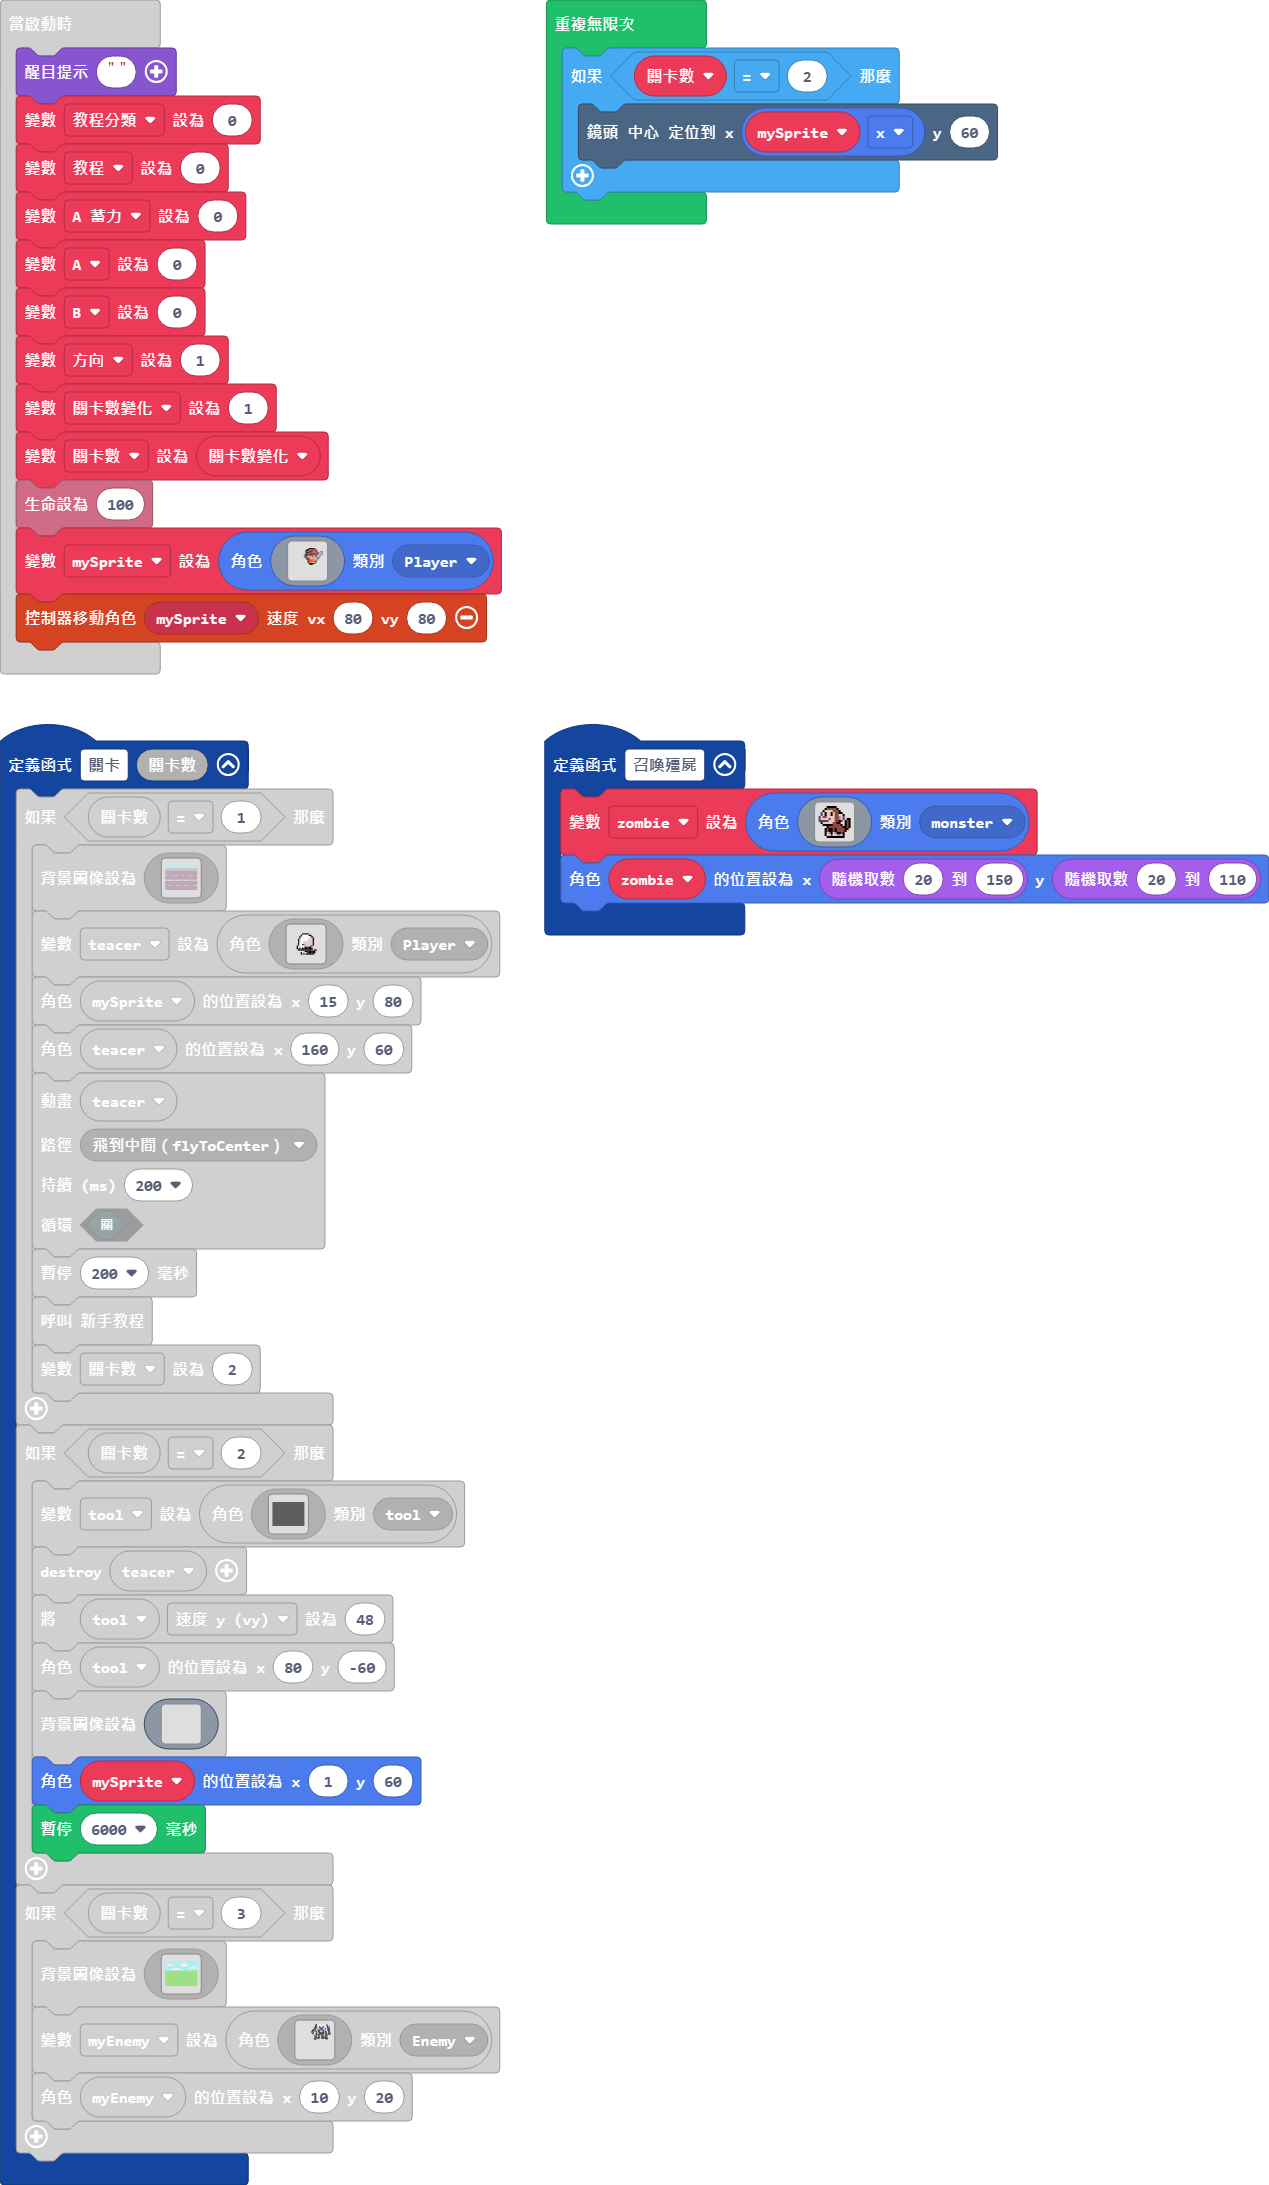
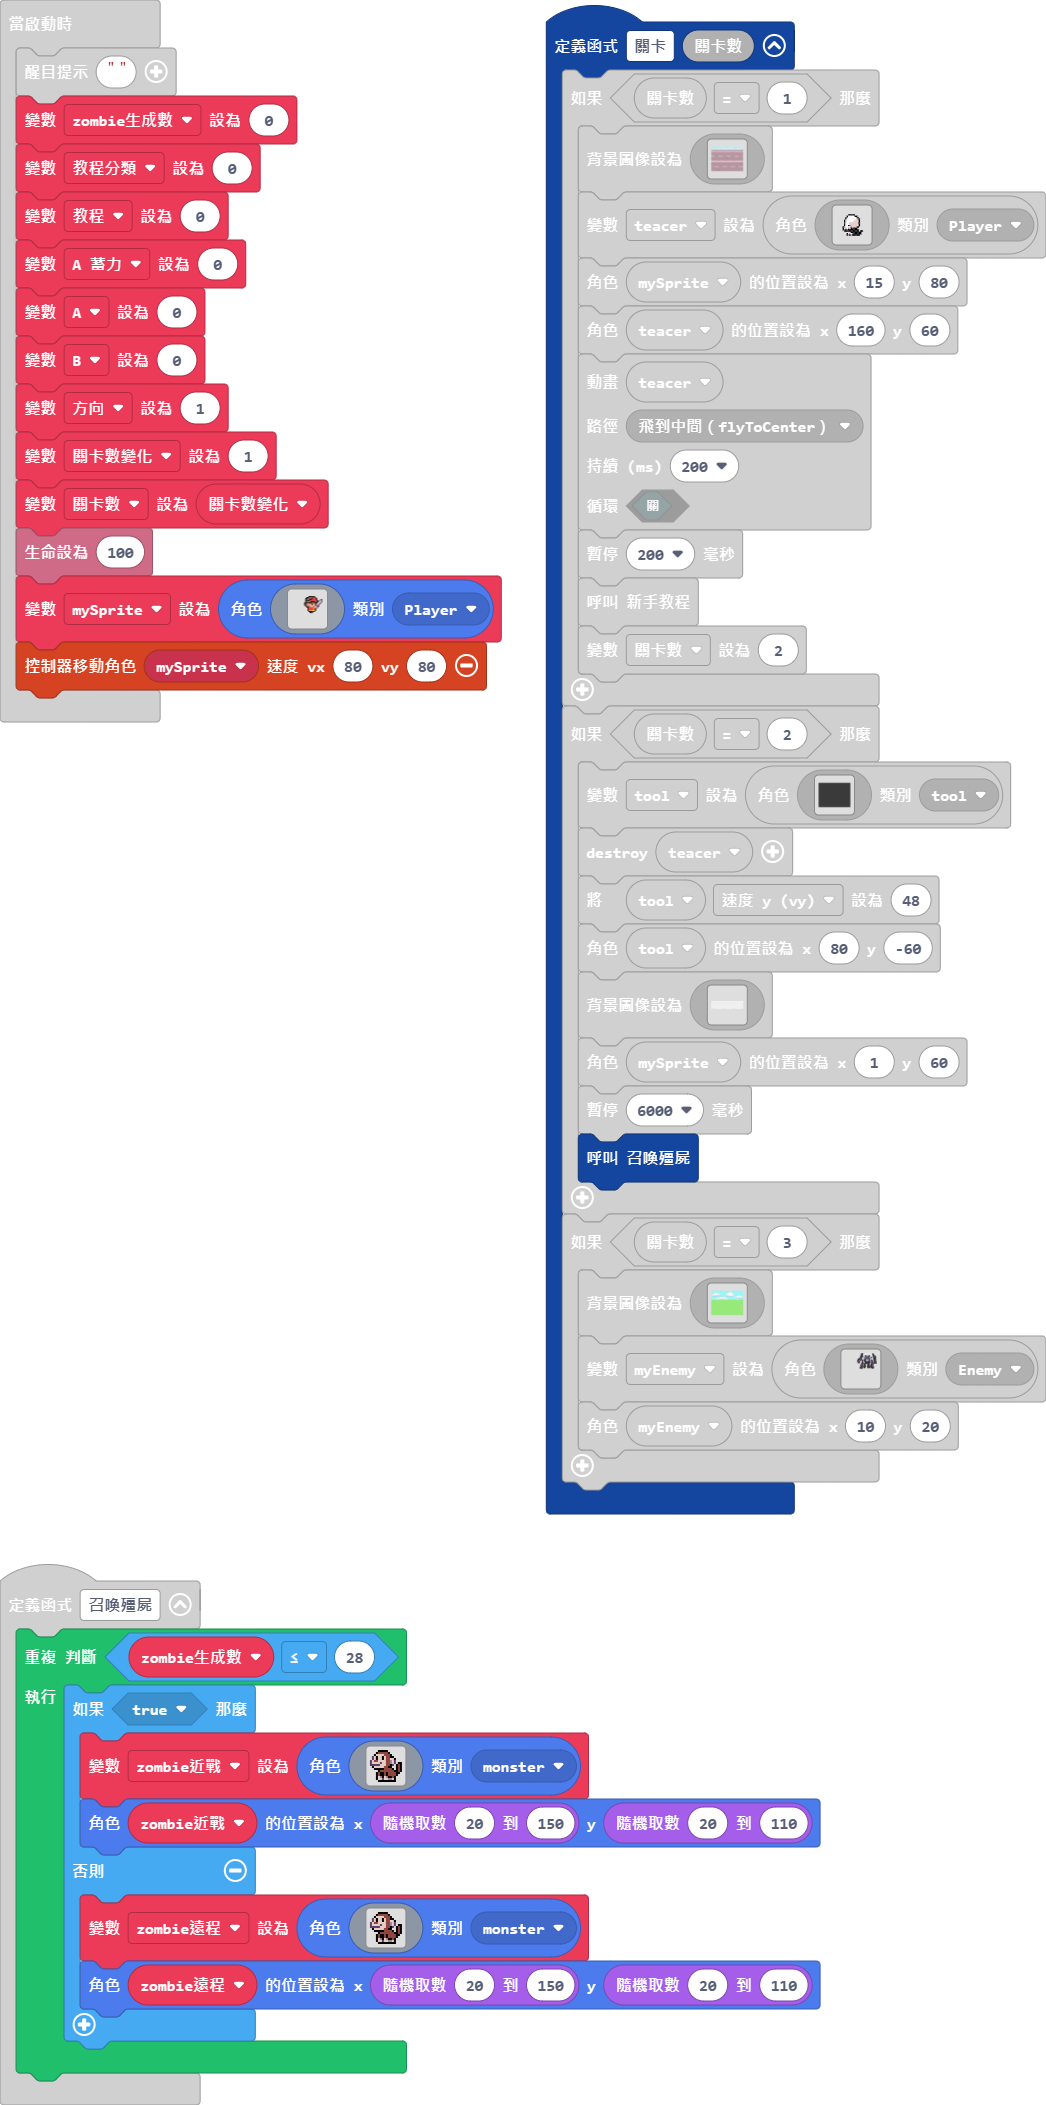
更新 main.blocks, main.ts

diff --git a/main.ts b/main.ts
@@ -1912,6 +1912,7 @@ function 關卡 (關卡數: number) {
             `)
         mySprite.setPosition(1, 60)
         pause(6000)
+        召喚殭屍()
     }
     if (關卡數 == 3) {
         scene.setBackgroundImage(img`
@@ -2437,25 +2438,49 @@ function L前翻 () {
     pause(25)
 }
 function 召喚殭屍 () {
-    zombie = sprites.create(img`
-        . . . . f f f f f . . . . . . . 
-        . . . f e e e e e f . . . . . . 
-        . . f d d d d e e e f . . . . . 
-        . c d f d d f d e e f f . . . . 
-        . c d f d d f d e e d d f . . . 
-        c d e e d d d d e e b d c . . . 
-        c d d d d c d d e e b d c . f f 
-        c c c c c d d d e e f c . f e f 
-        . f d d d d d e e f f . . f e f 
-        . . f f f f f e e e e f . f e f 
-        . . . . f e e e e e e e f f e f 
-        . . . f e f f e f e e e e f f . 
-        . . . f e f f e f e e e e f . . 
-        . . . f d b f d b f f e f . . . 
-        . . . f d d c d d b b d f . . . 
-        . . . . f f f f f f f f f . . . 
-        `, SpriteKind.monster)
-    zombie.setPosition(randint(20, 150), randint(20, 110))
+    while (zombie生成數 <= 28) {
+        if (true) {
+            zombie近戰 = sprites.create(img`
+                . . . . f f f f f . . . . . . . 
+                . . . f e e e e e f . . . . . . 
+                . . f d d d d e e e f . . . . . 
+                . c d f d d f d e e f f . . . . 
+                . c d f d d f d e e d d f . . . 
+                c d e e d d d d e e b d c . . . 
+                c d d d d c d d e e b d c . f f 
+                c c c c c d d d e e f c . f e f 
+                . f d d d d d e e f f . . f e f 
+                . . f f f f f e e e e f . f e f 
+                . . . . f e e e e e e e f f e f 
+                . . . f e f f e f e e e e f f . 
+                . . . f e f f e f e e e e f . . 
+                . . . f d b f d b f f e f . . . 
+                . . . f d d c d d b b d f . . . 
+                . . . . f f f f f f f f f . . . 
+                `, SpriteKind.monster)
+            zombie近戰.setPosition(randint(20, 150), randint(20, 110))
+        } else {
+            zombie遠程 = sprites.create(img`
+                . . . . f f f f f . . . . . . . 
+                . . . f e e e e e f . . . . . . 
+                . . f d d d d e e e f . . . . . 
+                . c d f d d f d e e f f . . . . 
+                . c d f d d f d e e d d f . . . 
+                c d e e d d d d e e b d c . . . 
+                c d d d d c d d e e b d c . f f 
+                c c c c c d d d e e f c . f e f 
+                . f d d d d d e e f f . . f e f 
+                . . f f f f f e e e e f . f e f 
+                . . . . f e e e e e e e f f e f 
+                . . . f e f f e f e e e e f f . 
+                . . . f e f f e f e e e e f . . 
+                . . . f d b f d b f f e f . . . 
+                . . . f d d c d d b b d f . . . 
+                . . . . f f f f f f f f f . . . 
+                `, SpriteKind.monster)
+            zombie遠程.setPosition(randint(20, 150), randint(20, 110))
+        }
+    }
 }
 function L後翻 () {
     mySprite.setImage(img`
@@ -2786,7 +2811,8 @@ function L後翻 () {
     pause(25)
 }
 let 教程4 = 0
-let zombie: Sprite = null
+let zombie遠程: Sprite = null
+let zombie近戰: Sprite = null
 let myEnemy: Sprite = null
 let tool: Sprite = null
 let projectile: Sprite = null
@@ -2804,7 +2830,9 @@ let A = 0
 let A_蓄力 = 0
 let 教程 = 0
 let 教程分類 = 0
+let zombie生成數 = 0
 game.splash("")
+zombie生成數 = 0
 教程分類 = 0
 教程 = 0
 A_蓄力 = 0
